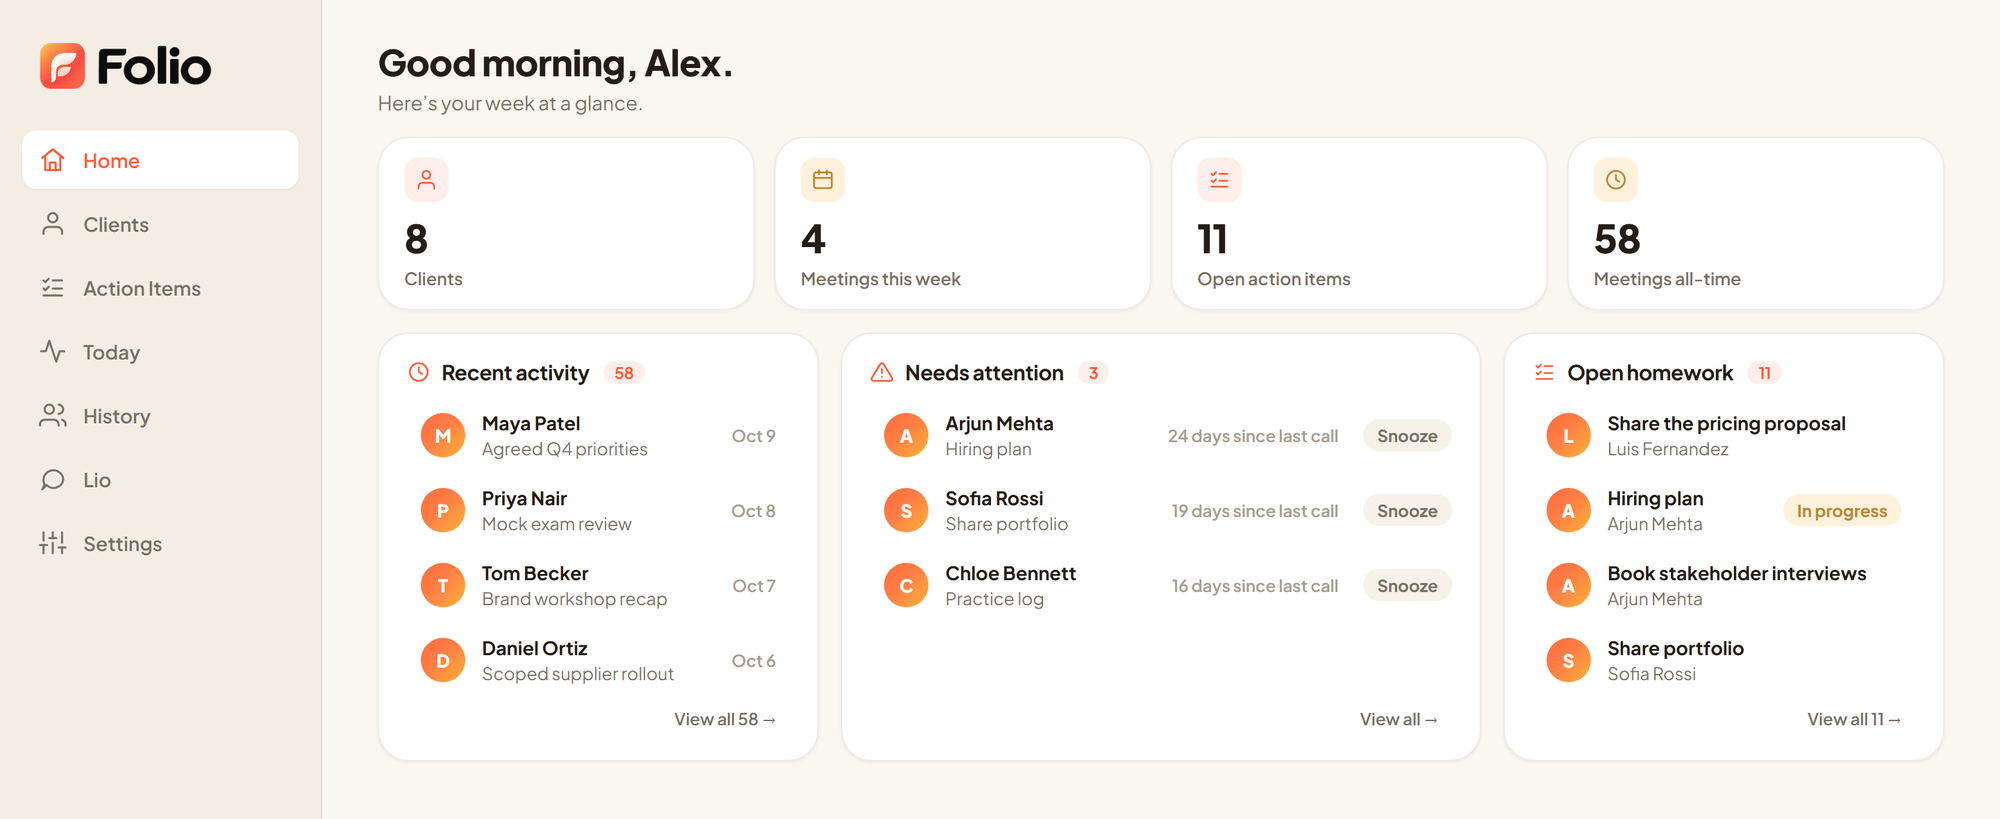
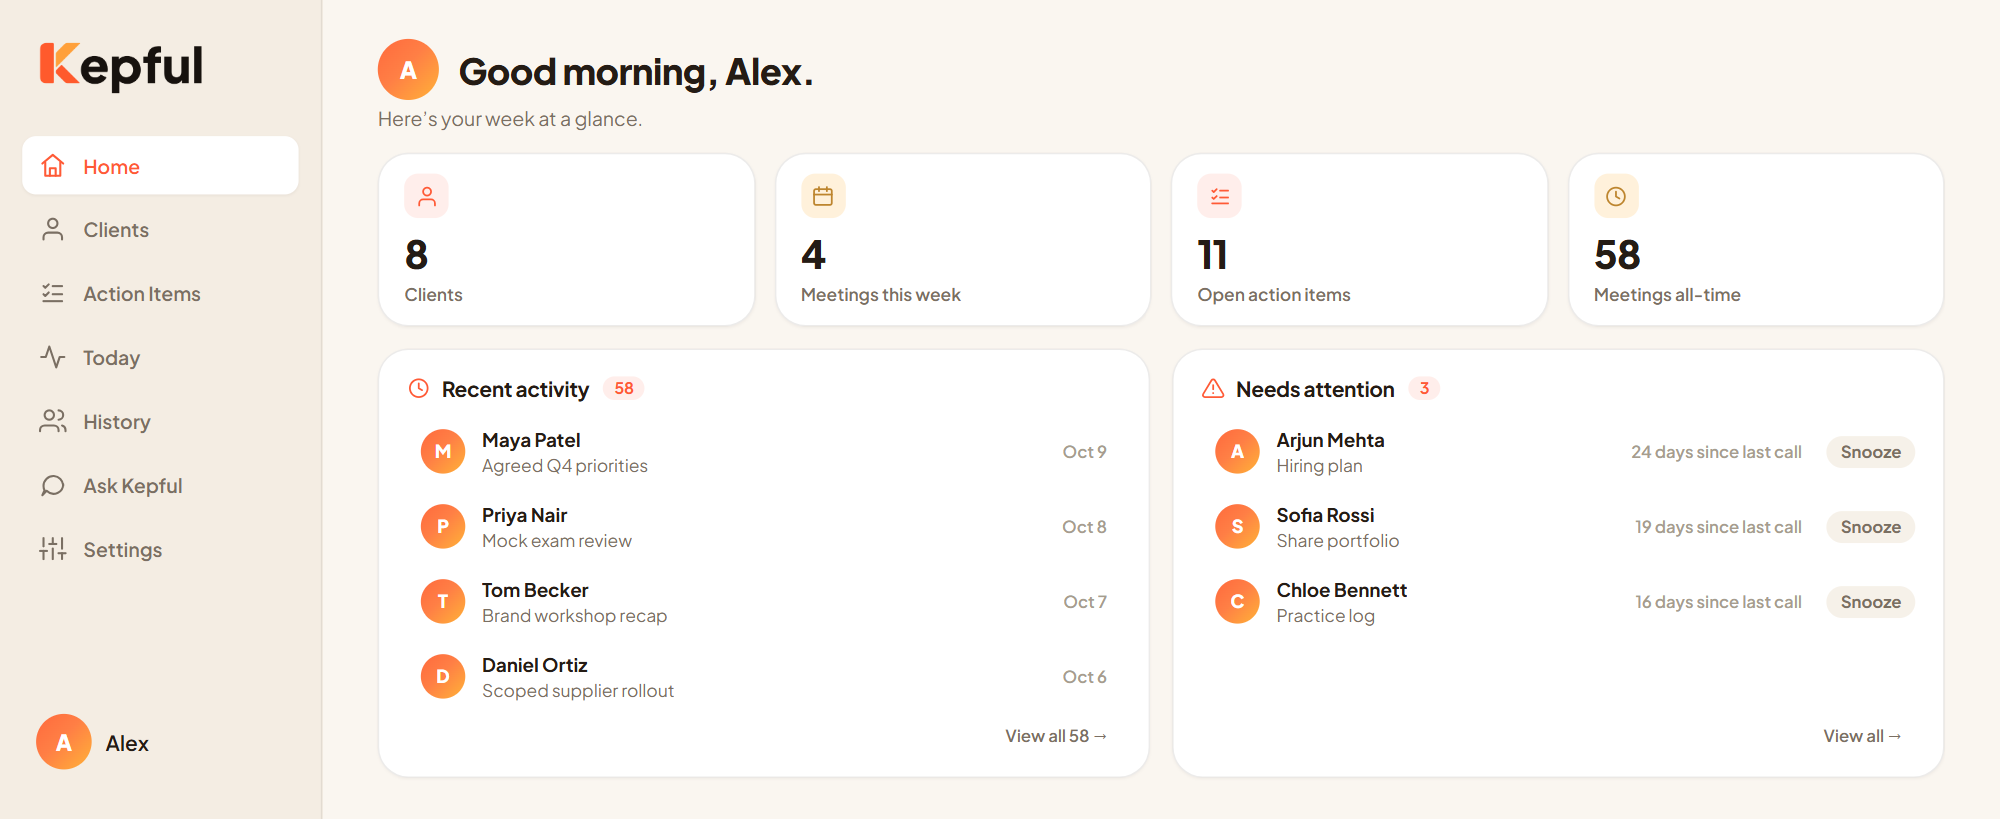
Replace dashboard screenshots with Kepful ones; rename lio images to ask
- home, actions and ask (formerly lio) screenshots re-rendered from the
  current extension with fictional demo data; same sizes, png + webp,
  desktop + mobile.
- lio*.png/webp renamed to ask*.png/webp; HTML references and alt text
  updated. Home alt text no longer mentions open homework (the shot shows
  two cards).

diff --git a/index.html b/index.html
@@ -62,10 +62,10 @@
 <section class="section" aria-labelledby="see-title">
   <div class="wrap">
     <div class="section-head reveal"><h2 id="see-title">Everything about every client, in one place</h2></div>
-    <div class="shots-main reveal"><div class="frame"><div class="bar" aria-hidden="true"><i></i><i></i><i></i></div><picture><source media="(max-width: 759px)" srcset="/assets/img/home-m.webp" type="image/webp" width="800" height="1204"><source media="(max-width: 759px)" srcset="/assets/img/home-m.png" width="800" height="1204"><source srcset="/assets/img/home.webp" type="image/webp"><img src="/assets/img/home.png" width="2000" height="819" alt="The Kepful dashboard home: eight clients, four meetings this week, eleven open action items, with recent activity, clients who need attention and open homework." loading="lazy" decoding="async"></picture></div></div>
+    <div class="shots-main reveal"><div class="frame"><div class="bar" aria-hidden="true"><i></i><i></i><i></i></div><picture><source media="(max-width: 759px)" srcset="/assets/img/home-m.webp" type="image/webp" width="800" height="1204"><source media="(max-width: 759px)" srcset="/assets/img/home-m.png" width="800" height="1204"><source srcset="/assets/img/home.webp" type="image/webp"><img src="/assets/img/home.png" width="2000" height="819" alt="The Kepful dashboard home: eight clients, four meetings this week, eleven open action items, with recent activity and the clients who need attention." loading="lazy" decoding="async"></picture></div></div>
     <div class="feature-row reveal">
       <div class="fr-text"><h3>Ask Kepful anything</h3><p>Ask about any client or any call. Every answer shows the meeting it came from.</p></div>
-      <div class="fr-img"><div class="frame"><div class="bar" aria-hidden="true"><i></i><i></i><i></i></div><picture><source media="(max-width: 759px)" srcset="/assets/img/lio-m.webp" type="image/webp" width="800" height="1200"><source media="(max-width: 759px)" srcset="/assets/img/lio-m.png" width="800" height="1200"><source srcset="/assets/img/lio.webp" type="image/webp"><img src="/assets/img/lio.png" width="1440" height="1095" alt="Ask Kepful answering what Maya Patel committed to last time, with the meeting date shown next to each answer." loading="lazy" decoding="async"></picture></div></div>
+      <div class="fr-img"><div class="frame"><div class="bar" aria-hidden="true"><i></i><i></i><i></i></div><picture><source media="(max-width: 759px)" srcset="/assets/img/ask-m.webp" type="image/webp" width="800" height="1200"><source media="(max-width: 759px)" srcset="/assets/img/ask-m.png" width="800" height="1200"><source srcset="/assets/img/ask.webp" type="image/webp"><img src="/assets/img/ask.png" width="1440" height="1095" alt="Ask Kepful answering what Maya Patel committed to last time, with the meeting date shown next to each answer." loading="lazy" decoding="async"></picture></div></div>
     </div>
     <div class="feature-row flip reveal">
       <div class="fr-img"><div class="frame"><div class="bar" aria-hidden="true"><i></i><i></i><i></i></div><picture><source media="(max-width: 759px)" srcset="/assets/img/actions-m.webp" type="image/webp" width="800" height="558"><source media="(max-width: 759px)" srcset="/assets/img/actions-m.png" width="800" height="558"><source srcset="/assets/img/actions.webp" type="image/webp"><img src="/assets/img/actions.png" width="1440" height="1095" alt="The Action Items view listing every task with its client, date and status: To do, In progress or Done." loading="lazy" decoding="async"></picture></div></div>
